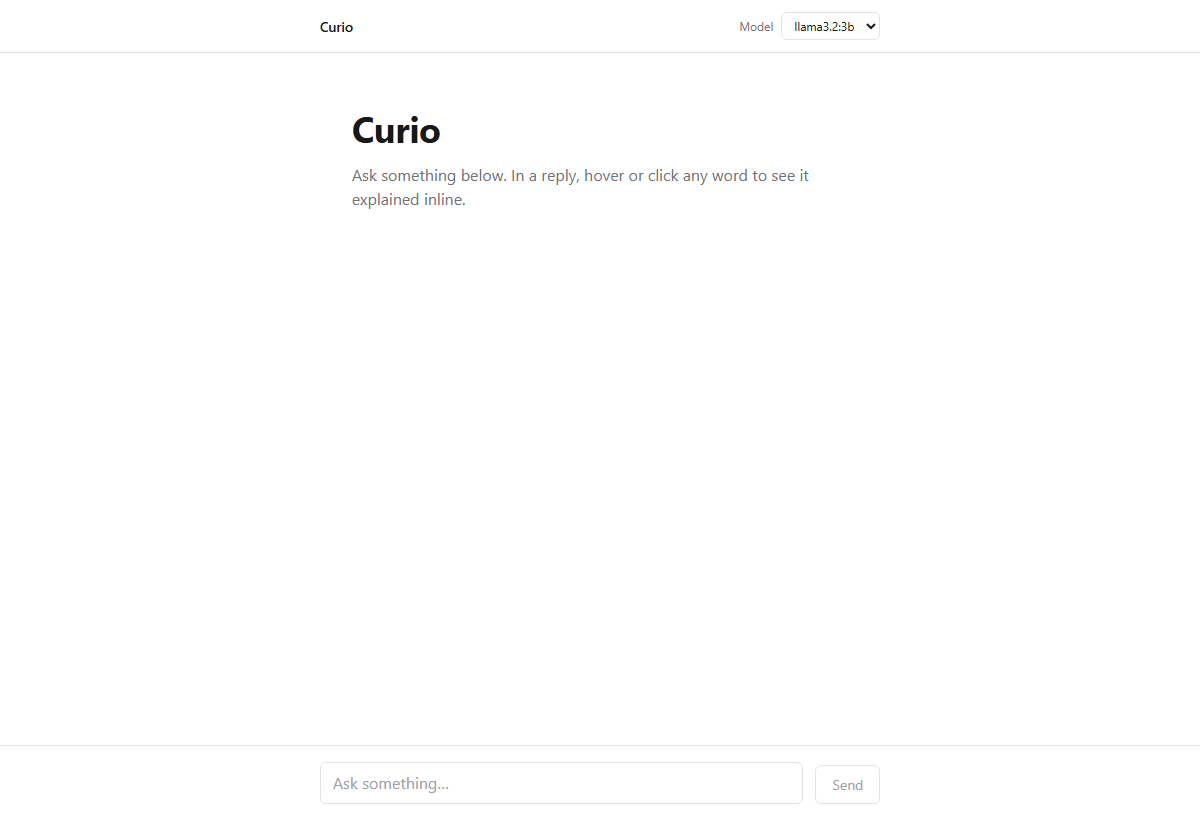
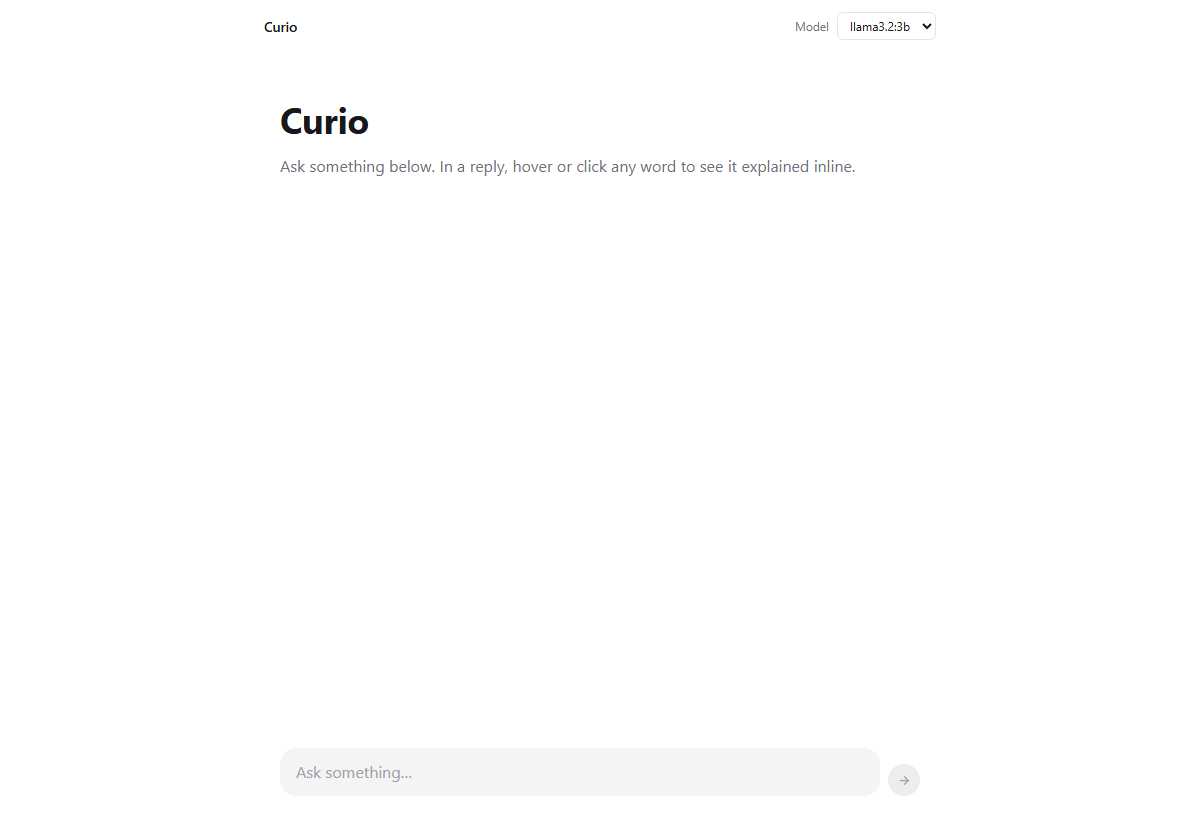
polish: simpler iOS-style UI — one column width, no divider lines, rounded
Unifies every zone (header, messages, composer, banner) to one max-w-2xl
column with identical padding, so text and input align. Removes all
hairline divider lines for a plainer page. Rounds corners iOS-style
(filled pill input, circular send button with a small right arrow,
rounded message bubbles and popover). Drops per-message role labels.

diff --git a/src/chat/Composer.tsx b/src/chat/Composer.tsx
@@ -24,22 +24,36 @@ export default function Composer({ onSend, disabled }: ComposerProps) {
   };
 
   return (
-    <form onSubmit={submit} className="sticky bottom-0 border-t border-border bg-bg px-6 py-4">
-      <div className="mx-auto flex max-w-measure items-end gap-3">
+    <form onSubmit={submit} className="sticky bottom-0 bg-bg pb-5 pt-2">
+      <div className="mx-auto flex w-full max-w-2xl items-end gap-2 px-4">
         <textarea
           value={text}
           onChange={(e) => setText(e.target.value)}
           onKeyDown={onKeyDown}
           rows={1}
           placeholder="Ask something…"
-          className="flex-1 resize-none rounded-sm border border-border bg-bg px-3 py-2 text-base text-fg outline-none placeholder:text-fg-faint focus-visible:border-border-focus"
+          className="flex-1 resize-none rounded-2xl bg-bg-muted px-4 py-3 text-base text-fg outline-none placeholder:text-fg-faint"
         />
         <button
           type="submit"
           disabled={disabled || !text.trim()}
-          className="rounded-sm border border-border px-4 py-2 text-sm text-fg transition-colors duration-fast hover:bg-bg-muted disabled:cursor-not-allowed disabled:text-fg-faint"
+          aria-label="Send"
+          className="flex h-[32px] w-[32px] shrink-0 items-center justify-center rounded-full bg-accent text-accent-fg transition-colors duration-fast hover:bg-accent-hover disabled:bg-bg-inset disabled:text-fg-faint"
         >
-          Send
+          <svg
+            width="15"
+            height="15"
+            viewBox="0 0 24 24"
+            fill="none"
+            stroke="currentColor"
+            strokeWidth="2"
+            strokeLinecap="round"
+            strokeLinejoin="round"
+            aria-hidden="true"
+          >
+            <path d="M5 12h13" />
+            <path d="M12 6l6 6-6 6" />
+          </svg>
         </button>
       </div>
     </form>

diff --git a/src/chat/Message.tsx b/src/chat/Message.tsx
@@ -32,25 +32,26 @@ function InteractiveText({ messageId, content }: { messageId: string; content: s
 
 export default function Message({ message }: MessageProps) {
   const isUser = message.role === 'user';
-  const label = isUser ? 'You' : 'Curio';
 
-  return (
-    <div className="mb-6">
-      <div className="mb-2 text-xs font-medium text-fg-muted">{label}</div>
-      {isUser ? (
-        <div className="ml-auto max-w-[80%] rounded-md bg-bg-muted px-4 py-3 text-base text-fg-secondary">
+  if (isUser) {
+    return (
+      <div className="mb-6 flex justify-end">
+        <div className="max-w-[80%] whitespace-pre-wrap rounded-3xl bg-bg-muted px-4 py-2.5 text-base text-fg">
           {message.content}
         </div>
-      ) : (
-        <div className="text-base leading-relaxed text-fg">
-          <InteractiveText messageId={message.id} content={message.content} />
-          {message.streaming && <span className="ml-0.5 animate-pulse text-fg-muted">▍</span>}
-          {message.error && (
-            <span className="text-sm text-fg-muted">
-              {message.content ? ' ' : ''}⚠ {message.error}
-            </span>
-          )}
-        </div>
+      </div>
+    );
+  }
+
+  return (
+    <div className="mb-6 text-base leading-relaxed text-fg">
+      <InteractiveText messageId={message.id} content={message.content} />
+      {message.streaming && <span className="ml-0.5 animate-pulse text-fg-muted">▍</span>}
+      {message.error && (
+        <span className="text-sm text-fg-muted">
+          {message.content ? ' ' : ''}
+          {message.error}
+        </span>
       )}
     </div>
   );

diff --git a/src/chat/OllamaBanner.tsx b/src/chat/OllamaBanner.tsx
@@ -5,7 +5,7 @@ interface OllamaBannerProps {
   onRetry: () => void;
 }
 
-/** Friendly hairline banner when Ollama is unreachable or has no models pulled. */
+/** Friendly, borderless notice when Ollama is unreachable or has no models pulled. */
 export default function OllamaBanner({ status, onRetry }: OllamaBannerProps) {
   if (status === 'ok' || status === 'checking') return null;
 
@@ -15,17 +15,15 @@ export default function OllamaBanner({ status, onRetry }: OllamaBannerProps) {
       : 'No models installed. Pull one with `ollama pull llama3.2:3b`, then retry.';
 
   return (
-    <div className="border-b border-border bg-bg-subtle px-6 py-2">
-      <div className="mx-auto flex max-w-measure items-center justify-between gap-3 text-sm text-fg-secondary">
-        <span>⚠ {message}</span>
-        <button
-          type="button"
-          onClick={onRetry}
-          className="shrink-0 rounded-sm border border-border px-3 py-1 text-xs text-fg transition-colors duration-fast hover:bg-bg-muted"
-        >
-          Retry
-        </button>
-      </div>
+    <div className="mb-6 flex items-center justify-between gap-3 rounded-2xl bg-bg-muted px-4 py-3 text-sm text-fg-secondary">
+      <span>{message}</span>
+      <button
+        type="button"
+        onClick={onRetry}
+        className="shrink-0 rounded-full bg-bg-inset px-3 py-1.5 text-xs text-fg transition-colors duration-fast hover:bg-border"
+      >
+        Retry
+      </button>
     </div>
   );
 }

diff --git a/src/chat/Header.tsx b/src/chat/Header.tsx
@@ -5,11 +5,11 @@ interface HeaderProps {
   models: OllamaModel[];
 }
 
-/** Slim top bar: the product name and the model picker. Hairline separator, no shadow. */
+/** Slim, borderless top bar: the product name and the model picker. */
 export default function Header({ models }: HeaderProps) {
   return (
-    <header className="border-b border-border bg-bg px-6 py-3">
-      <div className="mx-auto flex max-w-measure items-center justify-between gap-3">
+    <header className="bg-bg px-4 py-3">
+      <div className="mx-auto flex w-full max-w-2xl items-center justify-between gap-3">
         <span className="text-sm font-semibold tracking-tight text-fg">Curio</span>
         <ModelPicker models={models} />
       </div>

diff --git a/src/chat/ChatView.tsx b/src/chat/ChatView.tsx
@@ -15,9 +15,9 @@ export default function ChatView() {
   return (
     <div className="flex h-screen flex-col bg-bg">
       <Header models={models} />
-      <OllamaBanner status={status} onRetry={() => void reload()} />
       <div className="flex-1 overflow-y-auto">
-        <div className="mx-auto max-w-measure px-6 py-12">
+        <div className="mx-auto w-full max-w-2xl px-4 py-10">
+          <OllamaBanner status={status} onRetry={() => void reload()} />
           {messages.length === 0 ? (
             <div className="text-fg-muted">
               <h1 className="text-2xl font-bold tracking-tight text-fg">Curio</h1>

diff --git a/src/reading/Popover.tsx b/src/reading/Popover.tsx
@@ -19,7 +19,7 @@ const Popover = forwardRef<HTMLDivElement, PopoverProps>(function Popover(
   return (
     <div
       ref={ref}
-      className="curio-popover z-50 max-w-[320px] rounded-sm border border-border bg-bg px-3 py-2 text-sm leading-normal text-fg-secondary"
+      className="curio-popover z-50 max-w-[320px] rounded-2xl border border-border bg-bg px-4 py-3 text-sm leading-normal text-fg-secondary"
       {...rest}
     >
       {entry?.status === 'error' ? (
